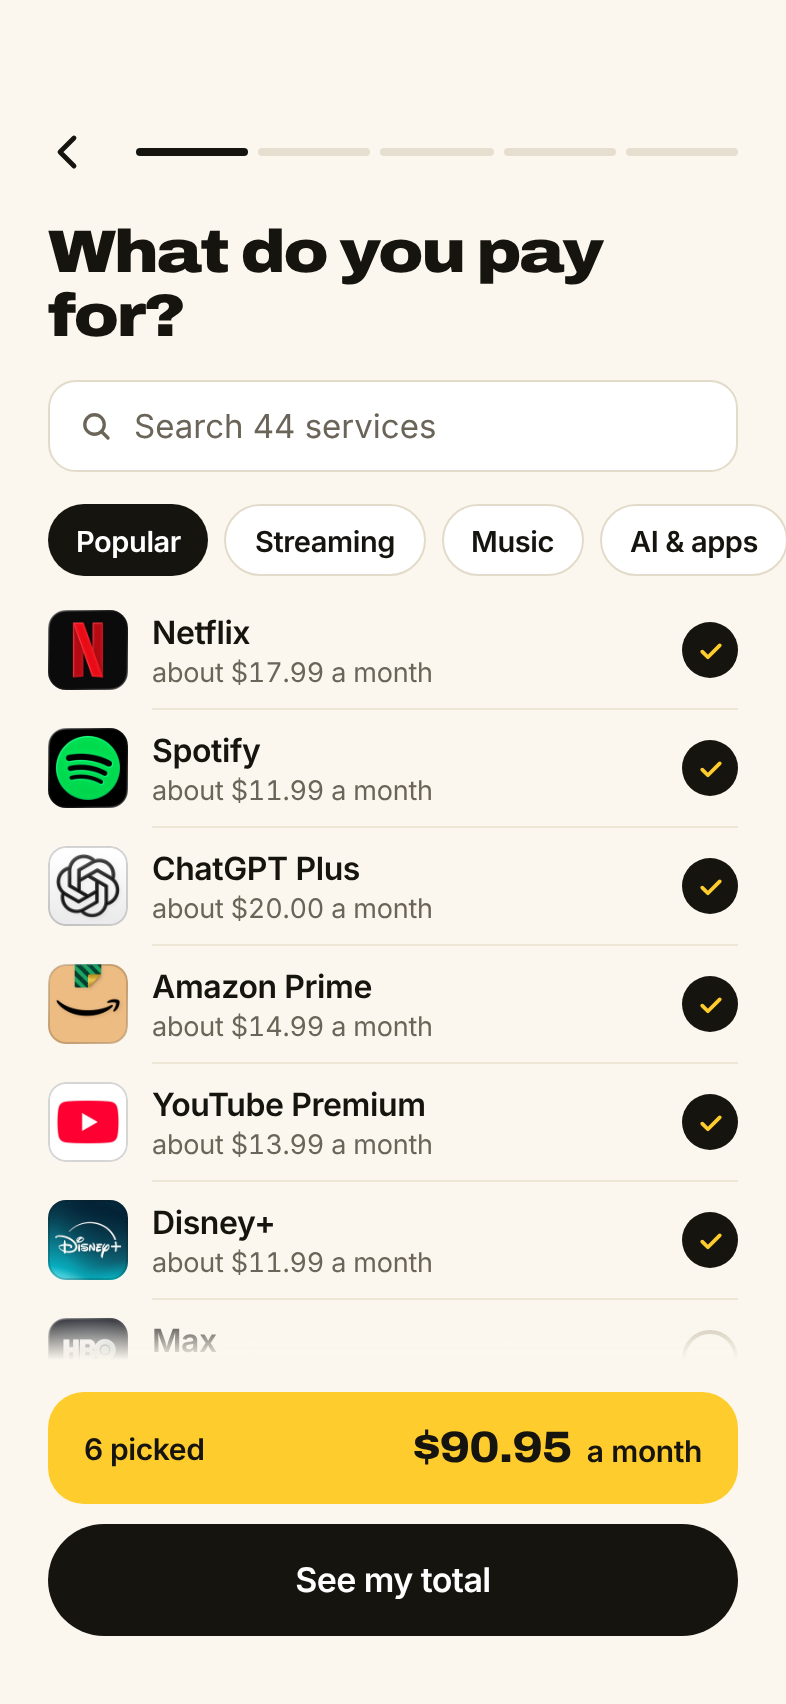
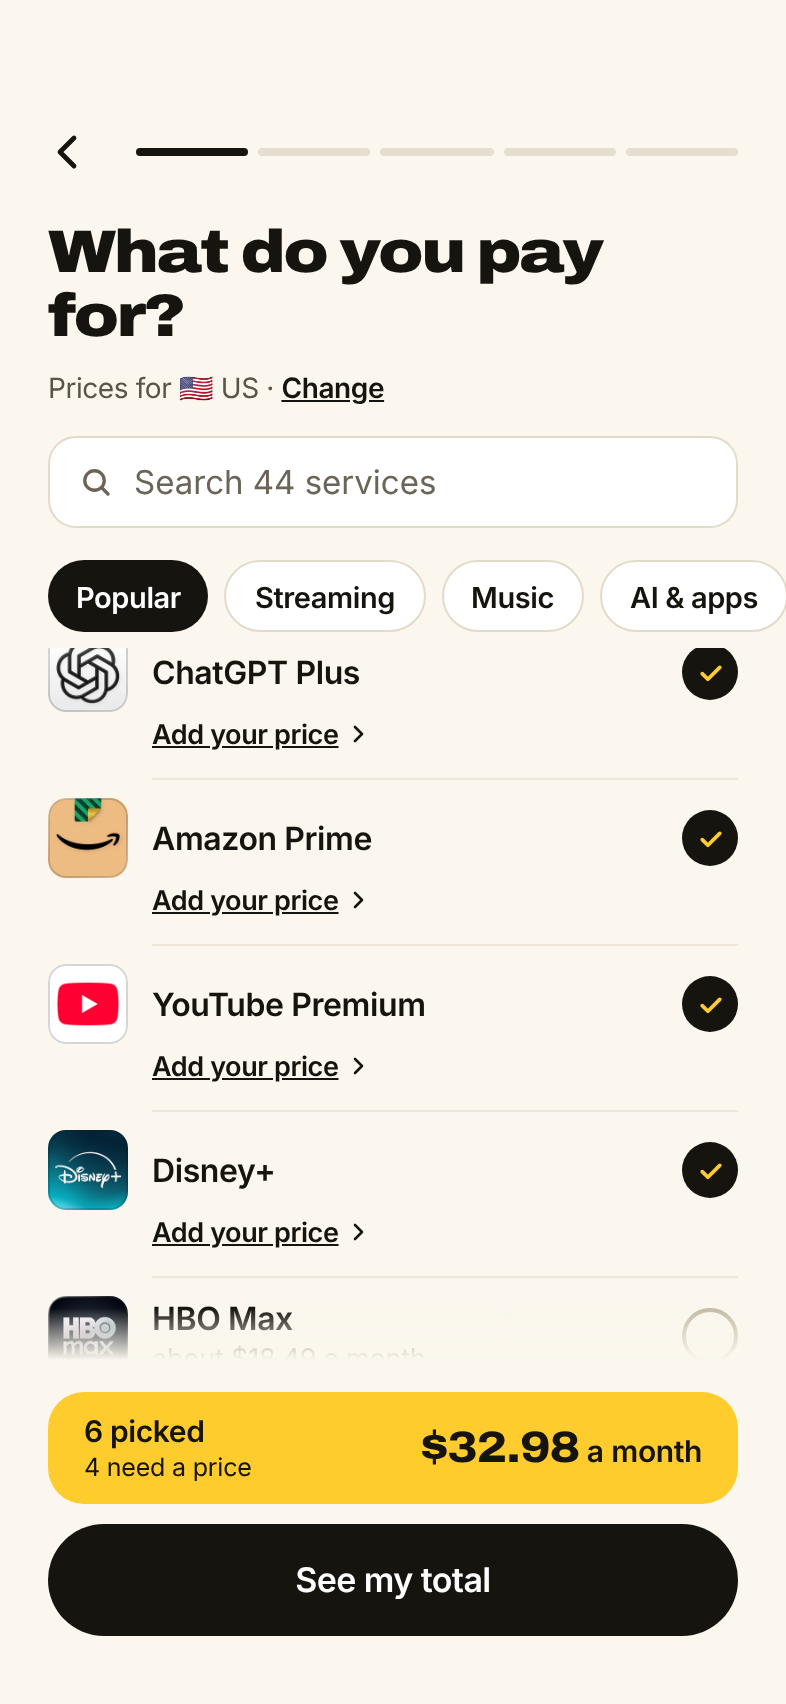
Re-shoot onboarding with local prices; note the unverified-price gap in STATUS
Screenshots in design/build-phase1 now show US catalog prices, plan pills,
Add your price, the country sheet and a UK total with a separate US$ line.

Claude-Session: https://claude.ai/code/session_01Q8GFjWCZXwnj2nAcxjTkxh

diff --git a/src/app/onboarding/dates.tsx b/src/app/onboarding/dates.tsx
@@ -86,7 +86,7 @@ export default function Dates() {
                 </Txt>
                 <View style={{ flexDirection: 'row', alignItems: 'center', gap: 6, marginTop: 1 }}>
                   <Txt v="sub" tone="mute" num>
-                    {priceOf(x, 'short') ?? 'No price yet'}
+                    {priceOf(x, 'short') ?? 'No price'}
                   </Txt>
                   {x.dateSource === 'guess' ? <GuessTag /> : null}
                 </View>

diff --git a/docs/STATUS.md b/docs/STATUS.md
@@ -16,14 +16,16 @@ _Update this at the end of every session._
   - Every number comes from the user's picks and the catalog. Charge dates start as labelled guesses; the date sheet takes a next charge or a last receipt and rolls it forward.
   - Paywall follows the honest rules and the plan-card research: Save 49% (rounded down), $2.50 a month (rounded up), Monthly says "No free trial".
   - "Turn on reminders" asks for the real iPhone permission.
-  - 55 Jest tests pass (money, dates, guesses, receipts, heads-ups, totals, prices, You're set copy).
+  - Jest tests pass (money, dates, guesses, receipts, heads-ups, totals, prices, You're set copy).
   - The Kiwi kit, raccoon, 3D emoji and Plus Jakarta Sans are gone.
 - ⚠ Purchases are stubbed (RevenueCat in M2). Home, Calendar and Ditched are placeholders. Nothing is saved to SQLite yet, so onboarding answers are lost when the app closes. Reminders are not scheduled yet.
 - ⚠ "Import from a screenshot" (DECISIONS #16) is a placeholder screen.
+- ✅ **Prices by country (DECISIONS #17):** 102 verified rows for 12 countries, generated into `src/catalog/prices.data.ts` by `npm run prices`. Country from the iPhone Region with "Prices for 🇺🇸 US · Change", one-tap plan pills, "Add your price" where we have no checked price, one total per currency (US$ vs A$ kept apart). 81 Jest tests pass.
+- ⚠ **Conversion risk:** only *verified* rows ship, so in the US Amazon Prime, YouTube Premium, ChatGPT Plus and Disney+ show "Add your price". With the 6 popular picks the US total drops to $396 until people add those. Checking those 4 prices by hand (and Disney+'s Hulu bundle) is the top data job.
 - 🗄 Retired: raccoon poses and Seedance loops in `design/premium-white/anim/` (kept for reference, not used).
 
 ## Next
-1. Per-country catalog prices (DECISIONS #17) and the plan chip on ticked rows.
+1. Verify Amazon Prime, YouTube Premium, ChatGPT Plus and Disney+ (US first) in `docs/research/prices-2026-11.json`, then `npm run prices`.
 2. Phase 2: Home, Calendar, Ditched (hold to ditch, the stamp), SQLite with migrations, and real reminder scheduling.
 3. Owner runs the onboarding checklist (`docs/MANUAL-TESTS.md` §1) on the iPhone with Expo Go.
 
